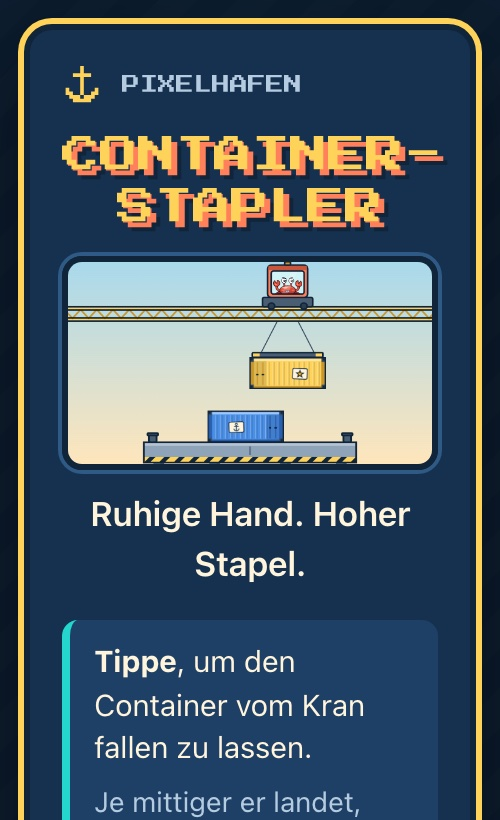
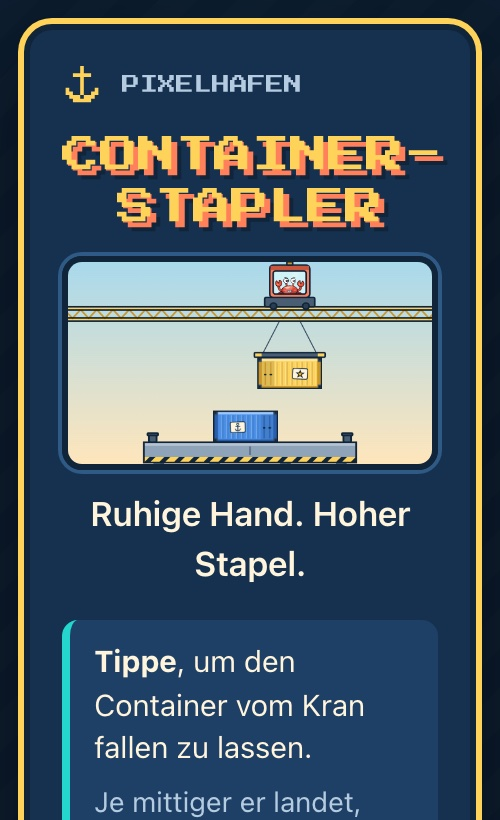
Containerstapler: neue Beschreibung und Bilder (schwerer, schaukelnde Türme)

Changed region(s): [[0.39, 0.3049, 0.66, 0.5488]]

diff --git a/index.html b/index.html
@@ -681,7 +681,7 @@ const SPIELE = [
 
   {
     titel: 'CONTAINERSTAPLER',
-    beschreibung: 'Kalle die Krabbe sitzt in der Kabine des Hafenkrans und fährt einen Container nach dem anderen über die Plattform. Lass ihn im richtigen Moment fallen und stapel einen möglichst hohen Turm. Die Physik ist echt: Mittige Landungen halten, mehrere schiefe bringen den Turm zum Kippen. Perfekte Landungen geben Bonuspunkte und eine Perfekt-Serie, und der Kran wird mit jedem Container ein bisschen schneller.',
+    beschreibung: 'Kalle die Krabbe sitzt in der Kabine des Hafenkrans und fährt einen Container nach dem anderen über die Plattform. Lass ihn im richtigen Moment fallen und stapel einen möglichst hohen Turm. Die Physik ist echt: Mittige Landungen setzen ruhig auf, schief gebaute Türme schaukeln bei jedem Aufprall und kippen schnell. Perfekte Landungen geben Bonuspunkte und eine Perfekt-Serie, und der Kran wird mit jedem Container schneller.',
     merkmale: ['Ein-Tipp-Spiel', 'Endlosmodus mit Rekord', 'Echte Stapel-Physik', 'Perfekt-Serien', 'Kalle als Kranführer'],
     steuerung: 'Handy: Tippe im richtigen Moment, um den Container fallen zu lassen. Computer: Mausklick oder Leertaste, P oder Escape für die Pause.',
     spielen: 'https://moje9328.github.io/containerstapler/',
